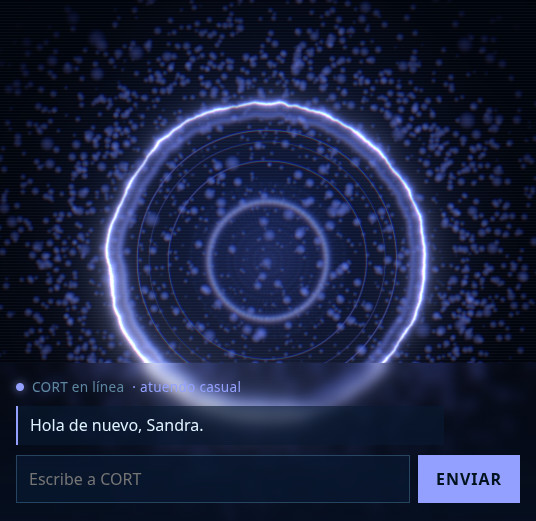
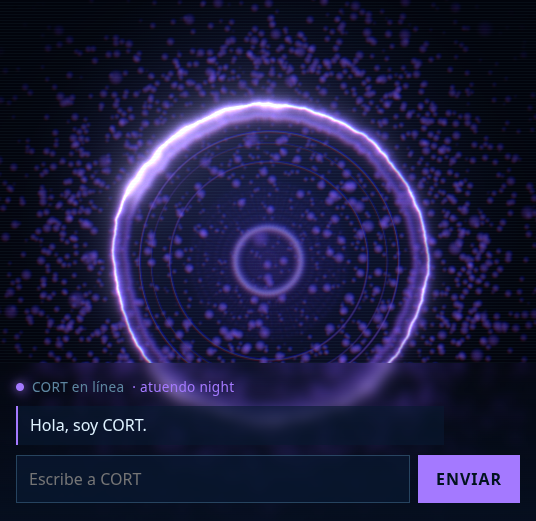
feat(memory): CORT_MEMORY_DB para otra cabeza sobre el mismo cuerpo
La ruta de la base de memoria se puede mover con una variable de entorno. El
caso que lo pidio: ensenar la interfaz con un saludo neutro sin tocar la
memoria real de nadie. Antes la unica alternativa era moverle el memory.db de
en medio, y eso no se hace ni para sacar una foto.

Captura del README reemplazada por la version neutra ("Hola, soy CORT.",
atuendo night): el repo es publico y la anterior llevaba su nombre.

2 pruebas nuevas; 69 en total.

diff --git a/services/core/tests/test_memory.py b/services/core/tests/test_memory.py
@@ -1,4 +1,5 @@
-import sys, pathlib, tempfile, unittest
+import importlib
+import os, sys, pathlib, tempfile, unittest
 
 sys.path.insert(0, str(pathlib.Path(__file__).resolve().parents[1]))
 from cort_core.memory.store import MemoryStore
@@ -170,6 +171,38 @@ class TestFacts(unittest.TestCase):
 
     def test_multiple_facts(self):
         self.assertEqual(2, len(extract("me llamo Sandra y me gusta el café")))
+
+
+class TestDbPathOverride(unittest.TestCase):
+    """`CORT_MEMORY_DB` decide qué cabeza usa un CORT: una demo no escribe encima
+    de la memoria real de nadie, y ésa es la única forma de enseñar la interfaz
+    con un saludo neutro sin moverle a nadie su base de datos."""
+
+    def setUp(self):
+        from cort_core.memory import store as store_module
+        self.module = store_module
+        self.original = os.environ.get("CORT_MEMORY_DB")
+        self.addCleanup(self._restore)
+
+    def _restore(self):
+        if self.original is None:
+            os.environ.pop("CORT_MEMORY_DB", None)
+        else:
+            os.environ["CORT_MEMORY_DB"] = self.original
+        importlib.reload(self.module)
+
+    def _reload(self):
+        importlib.reload(self.module)
+        return self.module.DB_PATH
+
+    def test_env_var_wins(self):
+        os.environ["CORT_MEMORY_DB"] = "/tmp/memoria-demo.db"
+        self.assertEqual(pathlib.Path("/tmp/memoria-demo.db"), self._reload())
+
+    def test_default_is_the_project_data_folder(self):
+        os.environ.pop("CORT_MEMORY_DB", None)
+        self.assertEqual("memory.db", self._reload().name)
+        self.assertEqual("data", self._reload().parent.name)
 
 
 if __name__ == "__main__":

diff --git a/services/core/cort_core/memory/store.py b/services/core/cort_core/memory/store.py
@@ -3,12 +3,18 @@
 Solo biblioteca estándar: la alternativa (sentence-transformers + faiss, como en la rama
 scaffold) necesita ~1,5 GiB de RAM y esta máquina no la tiene.
 """
+import os
 import re
 import sqlite3
 from datetime import datetime, timezone
 from pathlib import Path
 
-DB_PATH = Path(__file__).resolve().parents[2] / "data" / "memory.db"
+# `CORT_MEMORY_DB` permite levantar otro CORT con otra cabeza: una demo, una
+# segunda persona en el mismo PC, o una base vacía para una captura. Sin esto la
+# única alternativa sería moverle a nadie su memory.db de en medio, y eso no se
+# hace ni para sacar una foto.
+DB_PATH = Path(os.getenv("CORT_MEMORY_DB")
+               or Path(__file__).resolve().parents[2] / "data" / "memory.db")
 
 # Palabras que aparecen en cualquier frase y no identifican un recuerdo.
 _STOP = {"como", "cual", "cuando", "donde", "porque", "para", "pero", "este", "esta",

diff --git a/docs/ARCHITECTURE.md b/docs/ARCHITECTURE.md
@@ -57,7 +57,7 @@ Lo que la hace una capa de permisos y no un `subprocess` suelto:
 - `brain.py` — habla con Ollama a través de una **cadena de sustitución** (`CORT_LLM_CHAIN`): prueba los modelos en orden y usa el primero que responda. Antes de intentarlo pide `/api/tags` y **descarta por tamaño** lo que no cabe en RAM (`CORT_LLM_MAX_MODEL_MIB`, 700 MiB) — cargar `qwen3.5:2b` en esta máquina la congeló. Manda `keep_alive=30m` en cada petición: sin él Ollama descarga el modelo y la siguiente conversación paga 113 s de carga. Timeout en `CORT_LLM_TIMEOUT_S`. Distingue "Ollama no está" de "la cadena no respondió": confundirlos hace depurar un servidor caído que no existe. Si nada funciona, modo eco.
 - `intents.py` — comandos locales rápidos ("sube el volumen") sin gastar LLM. Devuelve una acción estructurada; **no ejecuta nada**.
 - `actions.py` — la capa de permisos: convierte esa acción estructurada en un comando real de la lista cerrada (arriba). Recibe un `runner` inyectable para que los tests comprueben el argv **sin tocar el sistema de audio de Sandra**.
-- `memory/store.py` — SQLite persistente en `services/core/data/memory.db` (fuera de git: son datos personales). `remember`, `recall`, `context_for`, `prune`, `name_of_user`, `all`. `context_for` es el que arma el prompt: si la pregunta no comparte raíces con ningún recuerdo, devuelve los más recientes en vez de nada, porque un prompt sin contexto hace que el modelo niegue que te conoce. `prune` se llama al arrancar el core y **nunca borra la fila del nombre**, que es de la que dependen el saludo y "¿cómo me llamo?".
+- `memory/store.py` — SQLite persistente en `services/core/data/memory.db` (fuera de git: son datos personales), o donde diga `CORT_MEMORY_DB` si se quiere otra cabeza para el mismo cuerpo: una demo, una segunda persona en el mismo PC, o una base vacía para sacar una captura sin tocar los datos de nadie. `remember`, `recall`, `context_for`, `prune`, `name_of_user`, `all`. `context_for` es el que arma el prompt: si la pregunta no comparte raíces con ningún recuerdo, devuelve los más recientes en vez de nada, porque un prompt sin contexto hace que el modelo niegue que te conoce. `prune` se llama al arrancar el core y **nunca borra la fila del nombre**, que es de la que dependen el saludo y "¿cómo me llamo?".
 - `memory/facts.py` — convierte frases del usuario ("me llamo X", "estudio Y") en hechos almacenables.
 - `outfit.py` — atuendo según hora y temperatura.
 - `server.py` — FastAPI + WebSocket. Por cada mensaje: guarda los hechos detectados, y si el texto pregunta por la identidad del usuario responde desde la memoria (sin LLM); si no, inyecta los recuerdos relevantes como mensaje de sistema antes de llamar a `brain.think`. Si el texto casa con un `intent`, lo ejecuta con `actions.perform` y **emite el resultado**: `pulse` si fue, `glitch` si no. La acción va con `await` sobre `asyncio.create_subprocess_exec`, nunca `subprocess.run` — un `run` bloqueante pararía el bucle que atiende a todos los clientes.
